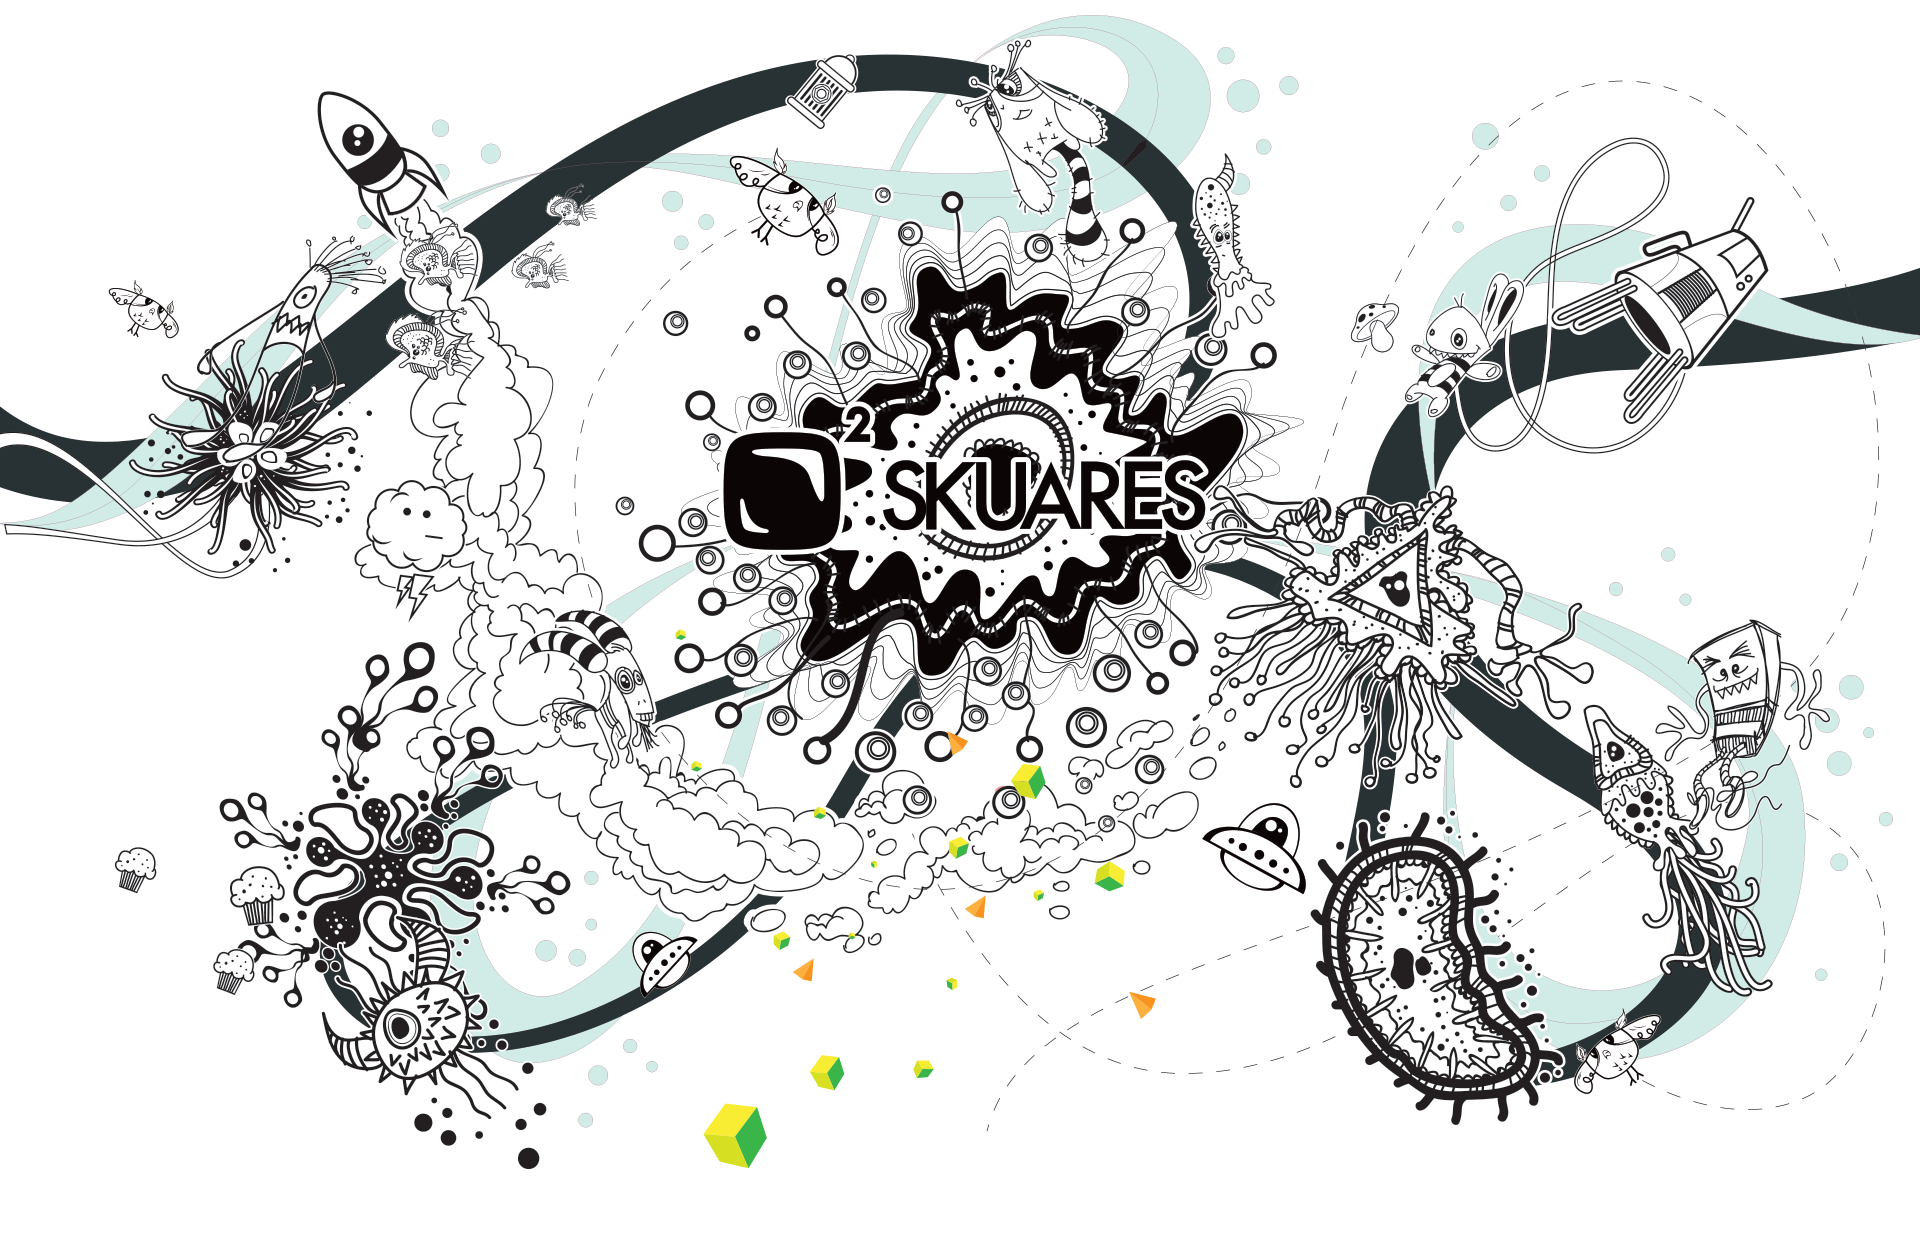
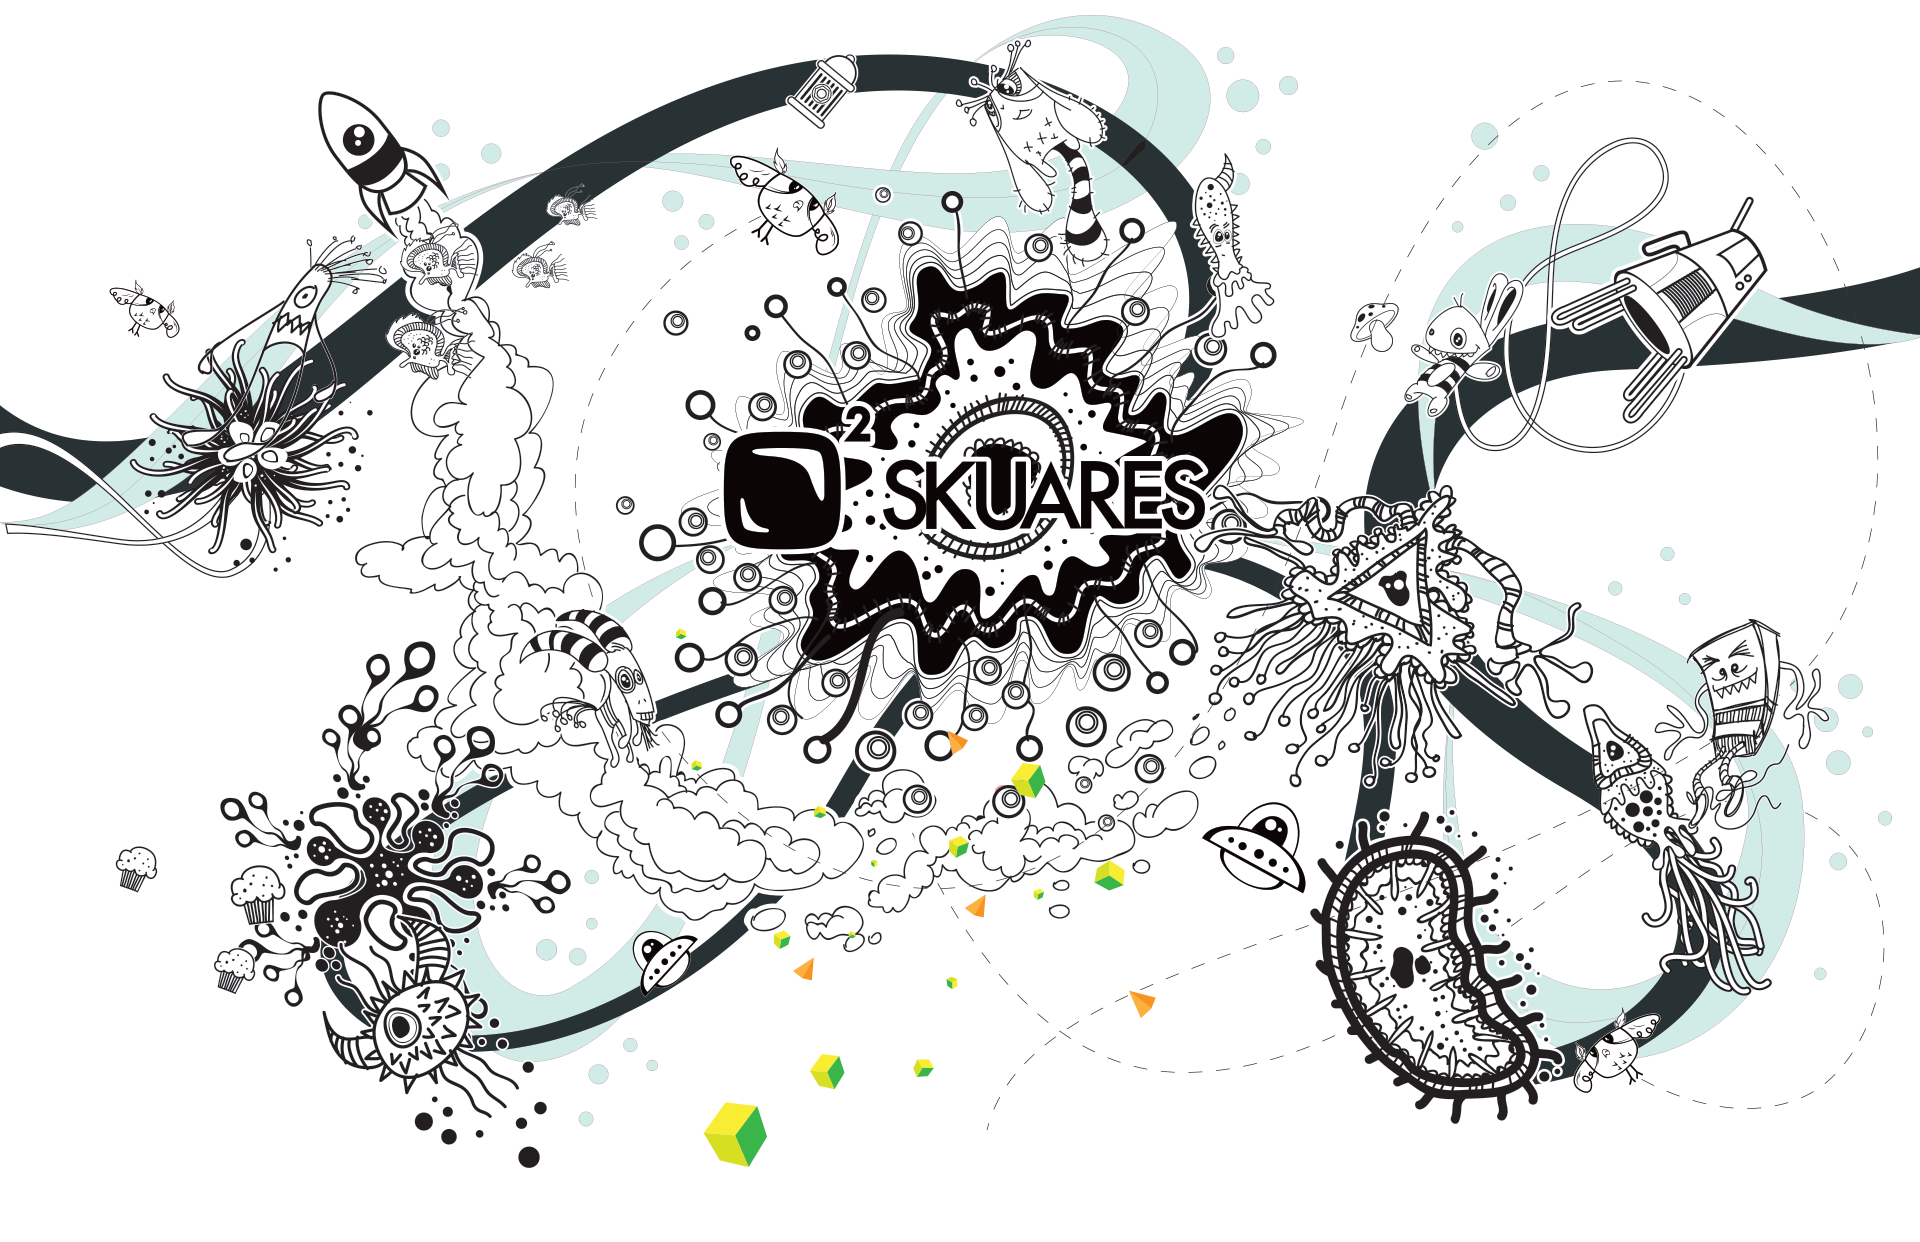
Added the cloud, not working yet

diff --git a/js/prefixfree.min.js b/js/prefixfree.min.js
@@ -1,0 +1,1 @@
+!function(){function e(e,r){return[].slice.call((r||document).querySelectorAll(e))}if(window.addEventListener){var r=window.StyleFix={link:function(e){try{if("stylesheet"!==e.rel||e.hasAttribute("data-noprefix"))return}catch(t){return}var n,i=e.href||e.getAttribute("data-href"),a=i.replace(/[^\/]+$/,""),o=(/^[a-z]{3,10}:/.exec(a)||[""])[0],s=(/^[a-z]{3,10}:\/\/[^\/]+/.exec(a)||[""])[0],l=/^([^?]*)\??/.exec(i)[1],u=e.parentNode,p=new XMLHttpRequest;p.onreadystatechange=function(){4===p.readyState&&n()},n=function(){var t=p.responseText;if(t&&e.parentNode&&(!p.status||p.status<400||p.status>600)){if(t=r.fix(t,!0,e),a){t=t.replace(/url\(\s*?((?:"|')?)(.+?)\1\s*?\)/gi,function(e,r,t){return/^([a-z]{3,10}:|#)/i.test(t)?e:/^\/\//.test(t)?'url("'+o+t+'")':/^\//.test(t)?'url("'+s+t+'")':/^\?/.test(t)?'url("'+l+t+'")':'url("'+a+t+'")'});var n=a.replace(/([\\\^\$*+[\]?{}.=!:(|)])/g,"\\$1");t=t.replace(RegExp("\\b(behavior:\\s*?url\\('?\"?)"+n,"gi"),"$1")}var i=document.createElement("style");i.textContent=t,i.media=e.media,i.disabled=e.disabled,i.setAttribute("data-href",e.getAttribute("href")),u.insertBefore(i,e),u.removeChild(e),i.media=e.media}};try{p.open("GET",i),p.send(null)}catch(t){"undefined"!=typeof XDomainRequest&&(p=new XDomainRequest,p.onerror=p.onprogress=function(){},p.onload=n,p.open("GET",i),p.send(null))}e.setAttribute("data-inprogress","")},styleElement:function(e){if(!e.hasAttribute("data-noprefix")){var t=e.disabled;e.textContent=r.fix(e.textContent,!0,e),e.disabled=t}},styleAttribute:function(e){var t=e.getAttribute("style");t=r.fix(t,!1,e),e.setAttribute("style",t)},process:function(){e("style").forEach(StyleFix.styleElement),e("[style]").forEach(StyleFix.styleAttribute)},register:function(e,t){(r.fixers=r.fixers||[]).splice(void 0===t?r.fixers.length:t,0,e)},fix:function(e,t,n){for(var i=0;i<r.fixers.length;i++)e=r.fixers[i](e,t,n)||e;return e},camelCase:function(e){return e.replace(/-([a-z])/g,function(e,r){return r.toUpperCase()}).replace("-","")},deCamelCase:function(e){return e.replace(/[A-Z]/g,function(e){return"-"+e.toLowerCase()})}};!function(){setTimeout(function(){},10),document.addEventListener("DOMContentLoaded",StyleFix.process,!1)}()}}(),function(e){function r(e,r,n,i,a){if(e=t[e],e.length){var o=RegExp(r+"("+e.join("|")+")"+n,"gi");a=a.replace(o,i)}return a}if(window.StyleFix&&window.getComputedStyle){var t=window.PrefixFree={prefixCSS:function(e,n){var i=t.prefix;if(t.functions.indexOf("linear-gradient")>-1&&(e=e.replace(/(\s|:|,)(repeating-)?linear-gradient\(\s*(-?\d*\.?\d*)deg/gi,function(e,r,t,n){return r+(t||"")+"linear-gradient("+(90-n)+"deg"})),e=r("functions","(\\s|:|,)","\\s*\\(","$1"+i+"$2(",e),e=r("keywords","(\\s|:)","(\\s|;|\\}|$)","$1"+i+"$2$3",e),e=r("properties","(^|\\{|\\s|;)","\\s*:","$1"+i+"$2:",e),t.properties.length){var a=RegExp("\\b("+t.properties.join("|")+")(?!:)","gi");e=r("valueProperties","\\b",":(.+?);",function(e){return e.replace(a,i+"$1")},e)}return n&&(e=r("selectors","","\\b",t.prefixSelector,e),e=r("atrules","@","\\b","@"+i+"$1",e)),e=e.replace(RegExp("-"+i,"g"),"-"),e=e.replace(/-\*-(?=[a-z]+)/gi,t.prefix)},property:function(e){return(t.properties.indexOf(e)?t.prefix:"")+e},value:function(e){return e=r("functions","(^|\\s|,)","\\s*\\(","$1"+t.prefix+"$2(",e),e=r("keywords","(^|\\s)","(\\s|$)","$1"+t.prefix+"$2$3",e)},prefixSelector:function(e){return e.replace(/^:{1,2}/,function(e){return e+t.prefix})},prefixProperty:function(e,r){var n=t.prefix+e;return r?StyleFix.camelCase(n):n}};!function(){var e={},r=[],n=getComputedStyle(document.documentElement,null),i=document.createElement("div").style,a=function(t){if("-"===t.charAt(0)){r.push(t);var n=t.split("-"),i=n[1];for(e[i]=++e[i]||1;n.length>3;){n.pop();var a=n.join("-");o(a)&&-1===r.indexOf(a)&&r.push(a)}}},o=function(e){return StyleFix.camelCase(e)in i};if(n.length>0)for(var s=0;s<n.length;s++)a(n[s]);else for(var l in n)a(StyleFix.deCamelCase(l));var u={uses:0};for(var p in e){var f=e[p];u.uses<f&&(u={prefix:p,uses:f})}t.prefix="-"+u.prefix+"-",t.Prefix=StyleFix.camelCase(t.prefix),t.properties=[];for(var s=0;s<r.length;s++){var l=r[s];if(0===l.indexOf(t.prefix)){var c=l.slice(t.prefix.length);o(c)||t.properties.push(c)}}"Ms"!=t.Prefix||"transform"in i||"MsTransform"in i||!("msTransform"in i)||t.properties.push("transform","transform-origin"),t.properties.sort()}(),function(){function e(e,r){return i[r]="",i[r]=e,!!i[r]}var r={"linear-gradient":{property:"backgroundImage",params:"red, teal"},calc:{property:"width",params:"1px + 5%"},element:{property:"backgroundImage",params:"#foo"},"cross-fade":{property:"backgroundImage",params:"url(a.png), url(b.png), 50%"}};r["repeating-linear-gradient"]=r["repeating-radial-gradient"]=r["radial-gradient"]=r["linear-gradient"];var n={initial:"color","zoom-in":"cursor","zoom-out":"cursor",box:"display",flexbox:"display","inline-flexbox":"display",flex:"display","inline-flex":"display",grid:"display","inline-grid":"display","min-content":"width"};t.functions=[],t.keywords=[];var i=document.createElement("div").style;for(var a in r){var o=r[a],s=o.property,l=a+"("+o.params+")";!e(l,s)&&e(t.prefix+l,s)&&t.functions.push(a)}for(var u in n){var s=n[u];!e(u,s)&&e(t.prefix+u,s)&&t.keywords.push(u)}}(),function(){function r(e){return a.textContent=e+"{}",!!a.sheet.cssRules.length}var n={":read-only":null,":read-write":null,":any-link":null,"::selection":null},i={keyframes:"name",viewport:null,document:'regexp(".")'};t.selectors=[],t.atrules=[];var a=e.appendChild(document.createElement("style"));for(var o in n){var s=o+(n[o]?"("+n[o]+")":"");!r(s)&&r(t.prefixSelector(s))&&t.selectors.push(o)}for(var l in i){var s=l+" "+(i[l]||"");!r("@"+s)&&r("@"+t.prefix+s)&&t.atrules.push(l)}e.removeChild(a)}(),t.valueProperties=["transition","transition-property"],e.className+=" "+t.prefix,StyleFix.register(t.prefixCSS)}}(document.documentElement);

diff --git a/index.html b/index.html
@@ -14,17 +14,45 @@
     <meta name="keywords" content="mobile android ios applications apps development design graphics usability html html5 web web2.0 website websites creative studio css3 jquery bootstrap skuares">
     <meta name="viewport" content="width=device-width, initial-scale=1">
     <link rel="shortcut icon" href="favicon.png" type="image/x-icon">
+
     <link rel="stylesheet" href="css/bootstrap.min.css">
     <style>
         body {
             padding-top: 0px;
             padding-bottom: 20px;
         }
+        .monster {
+            position: absolute;
+            width: 100px;
+            height: 100px;
+            margin: 2% auto;
+            background: url('img/le-cloud.png') left center;
+            overflow: auto;
+        }
+        .monster:hover {
+            position: absolute;
+            width: 100px;
+            height: 100px;
+            margin: 2% auto;
+            background: url('img/le-cloud.png') left center;
+            animation: play .9s steps(18);
+            overflow: auto;
+        }
+        @keyframes play {
+            100% {
+                background-position: -1800px;
+            }
+        }
     </style>
     <link rel="stylesheet" href="css/bootstrap-theme.min.css">
     <link rel="stylesheet" href="css/main.css">
 
+    <script src="js/prefixfree.min.js"></script>
     <script src="js/vendor/modernizr-2.6.2-respond-1.1.0.min.js"></script>
+
+    <!--here-->
+    <script src="js/prefixfree.min.js"></script>
+    <!--here-->
 </head>
 
 <body>
@@ -34,17 +62,21 @@
 
 
     <!-- Main jumbotron for a primary marketing message or call to action -->
-    <div class="home">
-<!--        <div class="container">-->
-            <img src="img/Home-Cover.png" class="cover-photo">
+
+    <div class="monster" style="left:20%;top:39%;"></div>
+    <div class="Home">
+        <!--        <div class="monster"></div>-->
+        <img src="img/Home-Cover.png" class="cover-photo">
+        <div class="container">
             <h1>Hello, world!</h1>
             <p>This is a template for a simple marketing or informational website. It includes a large callout called a jumbotron and three supporting pieces of content. Use it as a starting point to create something more unique.</p>
-            
+
         </div>
     </div>
 
-    <div class="container">
+    <div class="container-aboutus">
         <!-- Example row of columns -->
+
         <div class="row">
             <div class="col-md-4">
                 <h2>Heading</h2>
@@ -83,7 +115,7 @@
     <script src="js/plugins.js"></script>
     <script src="js/main.js"></script>
 
-    <!-- Google Analytics: change UA-XXXXX-X to be your site's ID. -->
+    <!--     Google Analytics: change UA-XXXXX-X to be your site's ID. -->
     <script>
         (function (b, o, i, l, e, r) {
             b.GoogleAnalyticsObject = l;

diff --git a/css/main.css b/css/main.css
@@ -1,33 +1,26 @@
+/*Home section styling*/
 
-
-/* ==========================================================================
-   Author's custom styles
-   ========================================================================== */
-
-
-.home
-{
+.Home {
     background-color: #000;
     max-width: 100%;
-    
 }
-.cover-photo
-{
-   max-width: 100%;
+.container {
+    padding-left: 60px;
+    padding-right: 60px;
+    font-family: "Helvetica Neue", Helvetica, Arial, sans-serif;
+    font-size: 14px;
+    line-height: 1.42857143;
+    color: #fff;
+    position:relative;
+}
+.container-aboutus {
+    padding-left: 60px;
+    padding-right: 60px;
+}
+/*The cover photo full width*/
+
+.cover-photo {
+    max-width: 100%;
     height: auto;
-	margin: 0 0 10px 0; 
+    margin: 0 0 10px 0;
 }
-
-
-
-
-
-
-
-
-
-
-
-
-
-

diff --git a/css/animate.css b/css/animate.css
@@ -1,0 +1,9 @@
+body {
+    background: #24aecd;
+    display: block;
+    width: 100%;
+    height: auto;
+    margin-bottom: 10px;
+    float: left;
+    text-align: left;
+}
